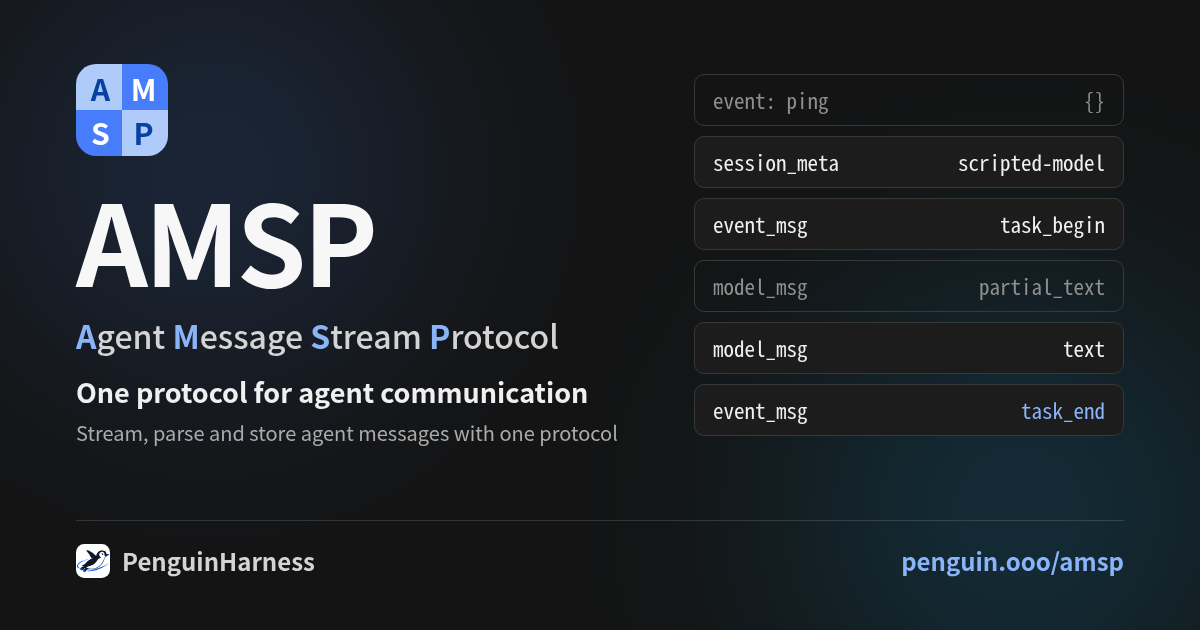
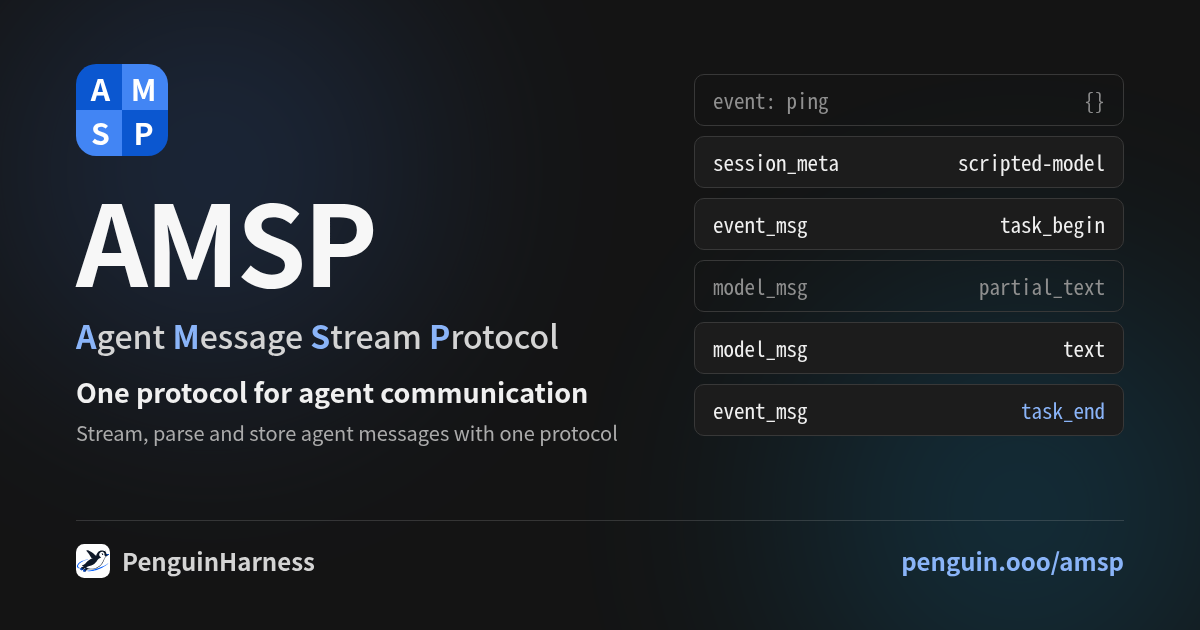
fix(landing): make the AMSP mark two shades of the brand blue
The owner chose the all-blue two-shade mark over the light tint: the two
tiles MMSP draws near-black are brand-700 #0b57d0, the other two brand-500
#4285f4, all four initials white, one rendition for both themes. MMSP pairs
blue with black; AMSP stays in the site's single blue family. The share
card's inline mark matches and og-amsp.png is re-rendered.

Changed region(s): [[0.0617, 0.0905, 0.1542, 0.2714]]

diff --git a/packages/landing/src/components/amsp-mark.tsx b/packages/landing/src/components/amsp-mark.tsx
@@ -1,26 +1,27 @@
 /**
  * The AMSP mark, MMSP's sibling (mmsp.penguin.ooo, agenthub `site/src/components/Logo.astro`): the
- * same 32-unit square of four 16-unit tiles with no gap, the outer corners rounded at 7, MMSP's
- * blue, and the four initials in bold. MMSP sets its blue on the top-left/bottom-right diagonal;
- * AMSP mirrors it onto the other one, so the blue runs through the diagonal the eye crosses reading
- * A M S P — the stream through the run. Where MMSP draws near-black, AMSP draws a light tint of the
- * same blue with deep-blue initials; the blue tiles keep MMSP's white ones. MMSP reads dark and
- * AMSP light, so the two tell apart at a glance and still read as a pair. The tint holds on a light
- * and a dark page alike, so the mark has one rendition for both themes.
+ * same 32-unit square of four 16-unit tiles with no gap, the outer corners rounded at 7, and the
+ * four initials in bold white. MMSP sets its blue on the top-left/bottom-right diagonal; AMSP sets
+ * the site's brand blue on the other one, so the blue runs through the diagonal the eye crosses
+ * reading A M S P — the stream through the run. Where MMSP draws near-black, AMSP draws a deep
+ * shade of the same blue: MMSP pairs blue with black, AMSP is two shades of one blue, so the two
+ * tell apart at a glance and the mark stays in the site's single colour family. Both shades read
+ * on a light and a dark page, so the mark has one rendition for both themes. Side by side the two
+ * read as a pair; alone, each is its own.
  *
- * Each tile is its own shape, as in MMSP's mark: a tinted square under the blue tiles would show a
- * rim of it along their rounded corners. The tinted tiles overlap the seam by half a unit so no
- * hairline shows between them.
+ * Each tile is its own shape, as in MMSP's mark: a deep square under the bright tiles would show a
+ * dark rim along their rounded corners on a light background. The deep tiles overlap the seam by
+ * half a unit so no hairline shows between them.
  */
 export function AmspMark({ className = "h-8 w-8" }: { className?: string }) {
   return (
     <svg viewBox="0 0 32 32" className={className} aria-hidden="true">
-      <g fill="#aecbfa">
+      <g fill="#0b57d0">
         <path d="M0 16.5V7a7 7 0 0 1 7-7h9.5v16.5Z" />
         <path d="M15.5 15.5H32V25a7 7 0 0 1-7 7h-9.5Z" />
       </g>
-      <path d="M16 0h9a7 7 0 0 1 7 7v9H16Z" fill="#477dfb" />
-      <path d="M0 16h16v16H7a7 7 0 0 1-7-7Z" fill="#477dfb" />
+      <path d="M16 0h9a7 7 0 0 1 7 7v9H16Z" fill="#4285f4" />
+      <path d="M0 16h16v16H7a7 7 0 0 1-7-7Z" fill="#4285f4" />
       <g
         fill="#fff"
         fontFamily="ui-sans-serif, system-ui, -apple-system, 'Segoe UI', Roboto, sans-serif"
@@ -29,7 +30,7 @@ export function AmspMark({ className = "h-8 w-8" }: { className?: string }) {
         textAnchor="middle"
         dominantBaseline="central"
       >
-        <text x="8.5" y="8.5" fill="#0842a0">
+        <text x="8.5" y="8.5">
           A
         </text>
         <text x="23.5" y="8.5">
@@ -38,7 +39,7 @@ export function AmspMark({ className = "h-8 w-8" }: { className?: string }) {
         <text x="8.5" y="23.5">
           S
         </text>
-        <text x="23.5" y="23.5" fill="#0842a0">
+        <text x="23.5" y="23.5">
           P
         </text>
       </g>

diff --git a/packages/landing/scripts/og-amsp.html b/packages/landing/scripts/og-amsp.html
@@ -166,12 +166,12 @@
         <div class="main">
           <div>
             <svg class="mark" viewBox="0 0 32 32" aria-hidden="true">
-              <g fill="#aecbfa">
+              <g fill="#0b57d0">
                 <path d="M0 16.5V7a7 7 0 0 1 7-7h9.5v16.5Z" />
                 <path d="M15.5 15.5H32V25a7 7 0 0 1-7 7h-9.5Z" />
               </g>
-              <path d="M16 0h9a7 7 0 0 1 7 7v9H16Z" fill="#477dfb" />
-              <path d="M0 16h16v16H7a7 7 0 0 1-7-7Z" fill="#477dfb" />
+              <path d="M16 0h9a7 7 0 0 1 7 7v9H16Z" fill="#4285f4" />
+              <path d="M0 16h16v16H7a7 7 0 0 1-7-7Z" fill="#4285f4" />
               <g
                 fill="#fff"
                 font-family="ui-sans-serif, system-ui, -apple-system, 'Segoe UI', Roboto, sans-serif"
@@ -180,10 +180,10 @@
                 text-anchor="middle"
                 dominant-baseline="central"
               >
-                <text x="8.5" y="8.5" fill="#0842a0">A</text>
+                <text x="8.5" y="8.5">A</text>
                 <text x="23.5" y="8.5">M</text>
                 <text x="8.5" y="23.5">S</text>
-                <text x="23.5" y="23.5" fill="#0842a0">P</text>
+                <text x="23.5" y="23.5">P</text>
               </g>
             </svg>
             <h1>AMSP</h1>

diff --git a/changelog/unreleased/2026-10-26-amsp-mark-tone.md b/changelog/unreleased/2026-10-26-amsp-mark-tone.md
@@ -1,4 +1,4 @@
-# The AMSP mark takes a light tone beside MMSP's
+# The AMSP mark turns two-shade blue beside MMSP's
 
 - **Date:** 2026-10-26
 - **Type:** fix
@@ -7,4 +7,4 @@
 
 [中文版](2026-10-26-amsp-mark-tone.zh.md)
 
-The AMSP mark no longer borrows MMSP's near-black tiles. The two tiles MMSP draws near-black are now a light tint of the brand blue (`#aecbfa`) with deep-blue initials (`#0842a0`), and the mark looks the same in the light and dark themes. The blue tiles with their white initials, the shape and the diagonal are unchanged. The new tone shows in the /amsp page's hero and in its share card, `og-amsp.png`, which was re-rendered.
+The AMSP mark no longer borrows MMSP's near-black tiles. The two tiles MMSP draws near-black are now a deep shade of the brand blue (`#0b57d0`) and the other two take the brand blue `#4285f4`, so beside MMSP's blue and black the mark is two shades of one blue and stays in the site's single colour family. All four initials stay white, and the mark looks the same in the light and dark themes. The shape and the diagonal are unchanged. The new colours show in the /amsp page's hero and in its share card, `og-amsp.png`, which was re-rendered.

diff --git a/changelog/unreleased/2026-10-26-amsp-mark-tone.zh.md b/changelog/unreleased/2026-10-26-amsp-mark-tone.zh.md
@@ -1,4 +1,4 @@
-# AMSP 标志改用浅色调，与 MMSP 区分
+# AMSP 标志改为双色蓝，与 MMSP 区分
 
 - **Date:** 2026-10-26
 - **Type:** fix
@@ -7,4 +7,4 @@
 
 [English](2026-10-26-amsp-mark-tone.md)
 
-AMSP 标志不再沿用 MMSP 的近黑色方块。在 MMSP 标志里是近黑色的两块，现在改为品牌蓝的浅色调（`#aecbfa`），其上字母改为深蓝（`#0842a0`）；标志在浅色与深色主题下外观一致。蓝色方块及其白色字母、整体形状与对角线均未改变。新色调出现在 /amsp 页面的首屏和该页的分享卡片 `og-amsp.png` 上，卡片已重新渲染。
+AMSP 标志不再沿用 MMSP 的近黑色方块。在 MMSP 标志里是近黑色的两块，现在改为深一档的品牌蓝（`#0b57d0`），另外两块改为品牌蓝 `#4285f4`：MMSP 是蓝配黑，AMSP 则是同一种蓝的两个深浅，仍在站点统一的蓝色系之内。四个字母保持白色，标志在浅色与深色主题下外观一致。整体形状与对角线均未改变。新配色出现在 /amsp 页面的首屏和该页的分享卡片 `og-amsp.png` 上，卡片已重新渲染。
